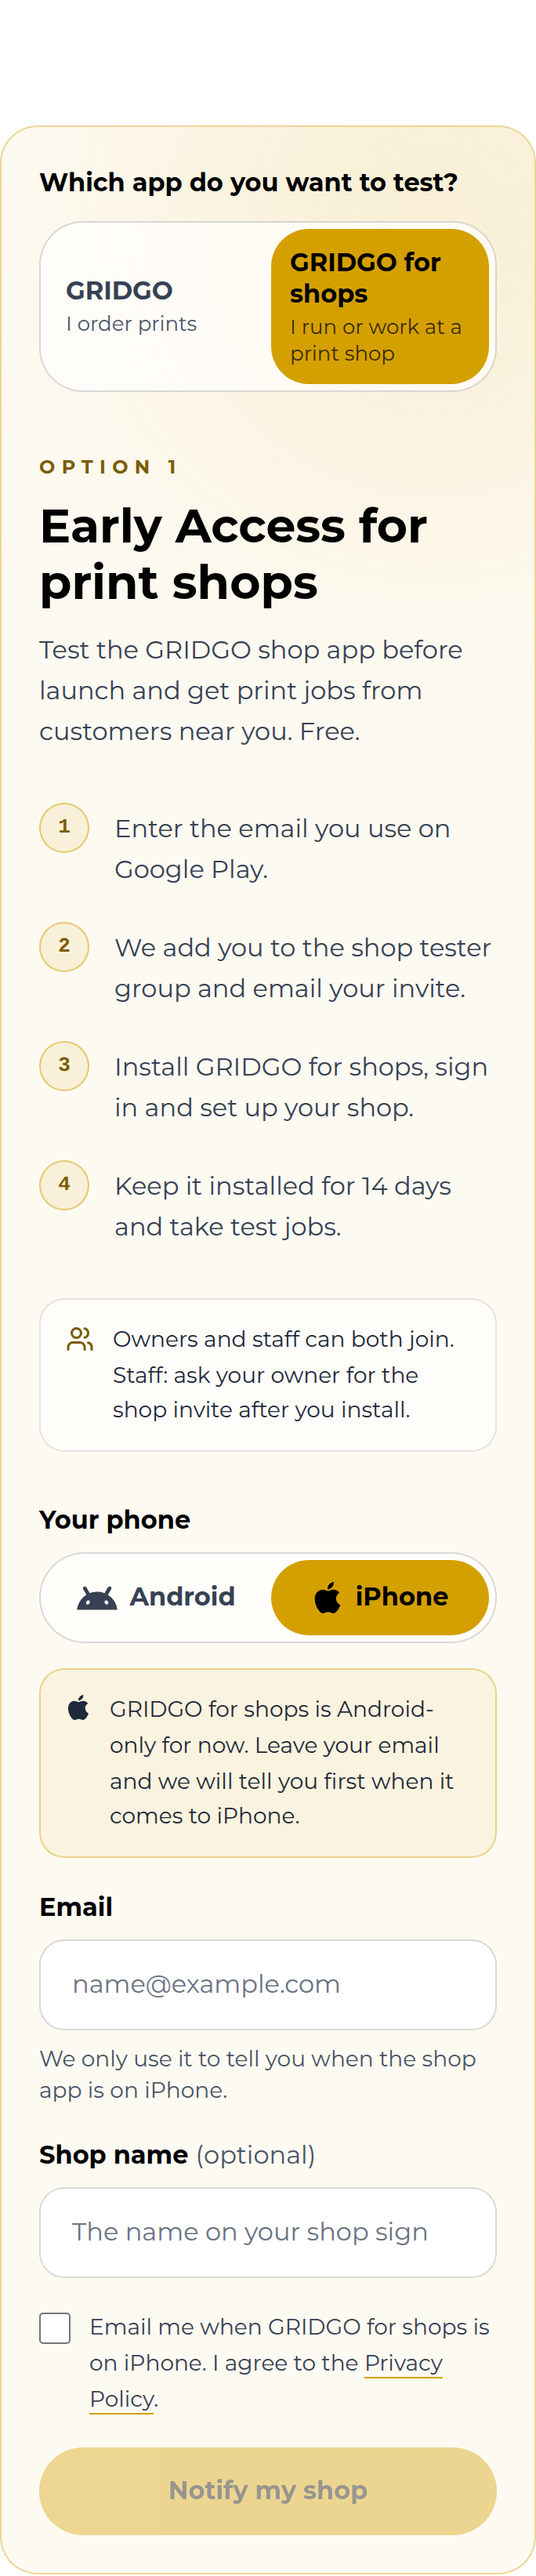
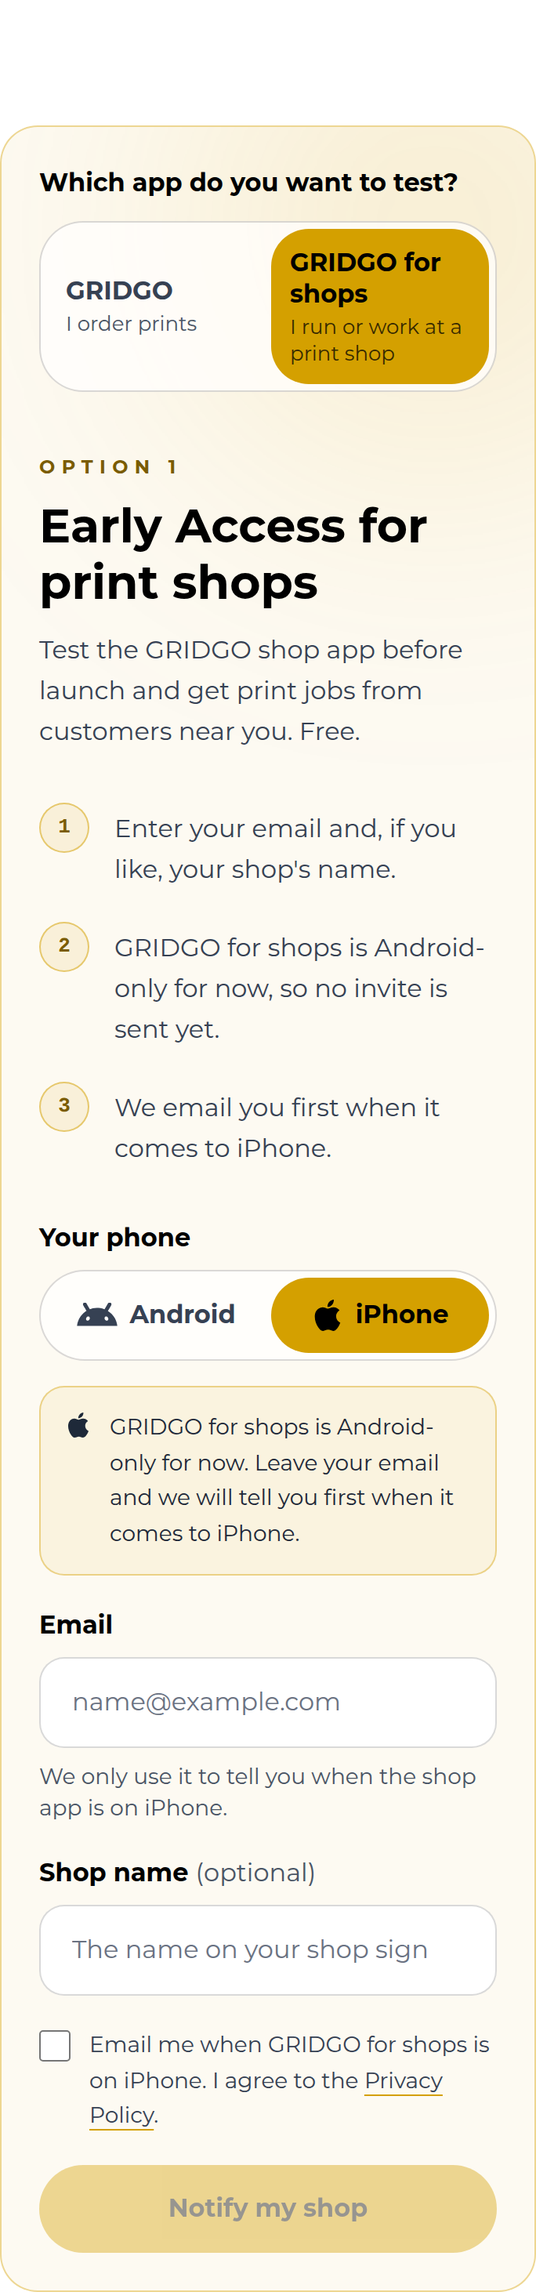
Early Access: an iPhone shop gets notify-only steps, not the Android invite steps
Review of #54 (P2): with the shop app and iPhone chosen, the steps beside the
form still promised a Google Play invite, an install and a 14-day test above
the notify-only form. An iPhone shop now sees three notify-only steps, and the
owners-and-staff install note is hidden for it. Android shop and customer copy
are unchanged.

scripts/check-early-access-render.mjs renders the whole Early Access section
through Vite's SSR loader for both apps on both phones and checks the visible
text, steps included; it fails on the previous step choice. Added to npm test.

Refs gridgoph/gridgo-web#329

Changed region(s): [[0.0307, 0.0311, 1.0, 1.0], [0.7982, 0.7469, 0.8904, 0.8092], [0.7061, 0.7469, 0.7675, 0.8092]]

diff --git a/src/DownloadPage.tsx b/src/DownloadPage.tsx
@@ -32,9 +32,8 @@ import {
   DEFAULT_PLATFORM,
   EARLY_ACCESS_NOTE,
   SECTION_COPY,
-  SHOP_STEPS,
   SHOP_TEAM_NOTE,
-  SIGN_UP_STEPS,
+  stepsFor,
   type EarlyApp,
   type Platform,
 } from './earlyAccess/logic';
@@ -331,11 +330,15 @@ function InstallChoices() {
   );
 }
 
-function EarlyAccessSection() {
+/**
+ * Option 1. Exported, with the phone settable, so scripts/check-early-access-render.mjs
+ * can render the whole section for each app and phone.
+ */
+export function EarlyAccessSection({ initialPlatform = DEFAULT_PLATFORM }: { initialPlatform?: Platform } = {}) {
   const { search } = useLocation();
   // `?app=shop` (every "for print shops" link) preselects the shop app; the switch still works.
   const [app, setApp] = useState<EarlyApp>(() => appFromSearch(search) ?? DEFAULT_APP);
-  const [platform, setPlatform] = useState<Platform>(DEFAULT_PLATFORM);
+  const [platform, setPlatform] = useState<Platform>(initialPlatform);
   // A later link with another ?app= (same page, new address) picks again.
   const linkedApp = appFromSearch(search);
   const [seenLink, setSeenLink] = useState(linkedApp);
@@ -345,7 +348,9 @@ function EarlyAccessSection() {
   }
   const shop = app === 'shop';
   const copy = SECTION_COPY[app];
-  const steps = shop ? SHOP_STEPS : SIGN_UP_STEPS[platform];
+  // An iPhone shop only asks to be told: its steps promise no invite or install.
+  const steps = stepsFor(app, platform);
+  const notifyOnly = shop && platform === 'iphone';
   return (
     <section id="early-access" className="scroll-mt-8 pt-20 md:pt-28">
       <div className="relative overflow-clip rounded-3xl border border-[var(--color-primary)]/40 bg-[var(--color-primary)]/[0.05] p-6 sm:p-8 md:p-14">
@@ -375,7 +380,7 @@ function EarlyAccessSection() {
                 </li>
               ))}
             </ol>
-            {shop ? (
+            {shop && !notifyOnly ? (
               <p className="mt-8 flex items-start gap-3 rounded-2xl border border-black/10 dark:border-white/15 bg-white/60 dark:bg-white/[0.03] px-4 py-3.5 text-sm leading-relaxed text-gray-800 dark:text-gray-200">
                 <Users size={18} aria-hidden="true" className="mt-0.5 shrink-0 text-[var(--color-primary-text)]" />
                 <span>{SHOP_TEAM_NOTE}</span>

diff --git a/src/earlyAccess/logic.ts b/src/earlyAccess/logic.ts
@@ -61,6 +61,22 @@ export const SHOP_STEPS: string[] = [
   'Keep it installed for 14 days and take test jobs.',
 ];
 
+/**
+ * An iPhone shop is a notify-me: the shop app is Android-only, so no invite,
+ * install or 14-day test is promised. These replace SHOP_STEPS beside the form.
+ */
+export const SHOP_IPHONE_STEPS: string[] = [
+  "Enter your email and, if you like, your shop's name.",
+  'GRIDGO for shops is Android-only for now, so no invite is sent yet.',
+  'We email you first when it comes to iPhone.',
+];
+
+/** The steps beside the form for this app and phone. */
+export function stepsFor(app: EarlyApp, platform: Platform): string[] {
+  if (app === 'shop') return platform === 'iphone' ? SHOP_IPHONE_STEPS : SHOP_STEPS;
+  return SIGN_UP_STEPS[platform];
+}
+
 /** The shop version of the form, per phone. iPhone is a notify-me, not an invite. */
 export const SHOP_FORM_COPY: Record<
   Platform,
